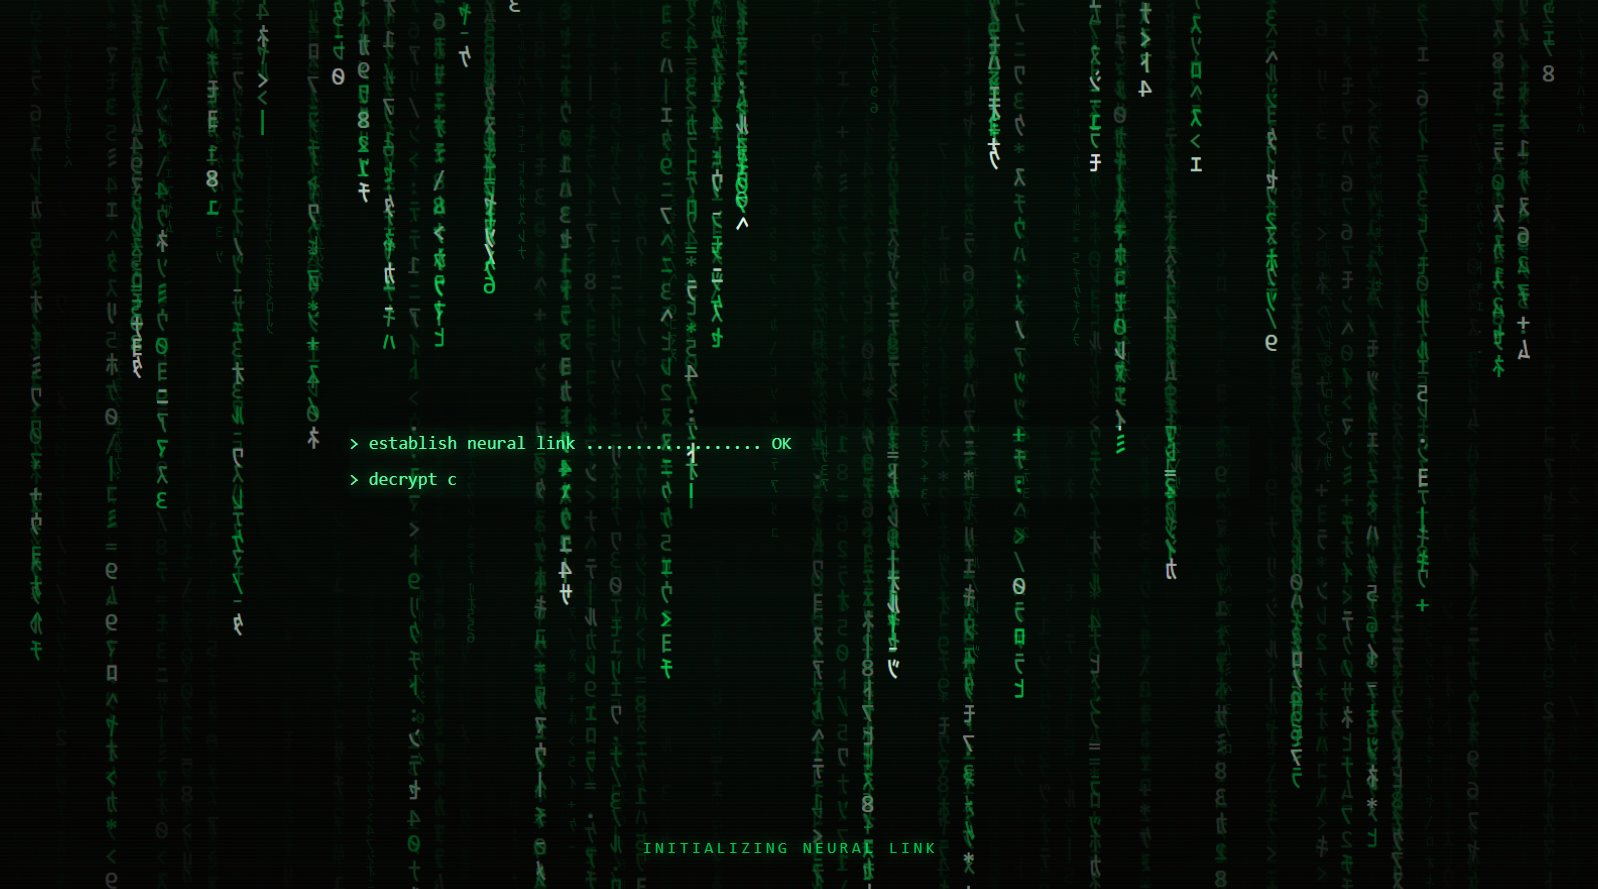
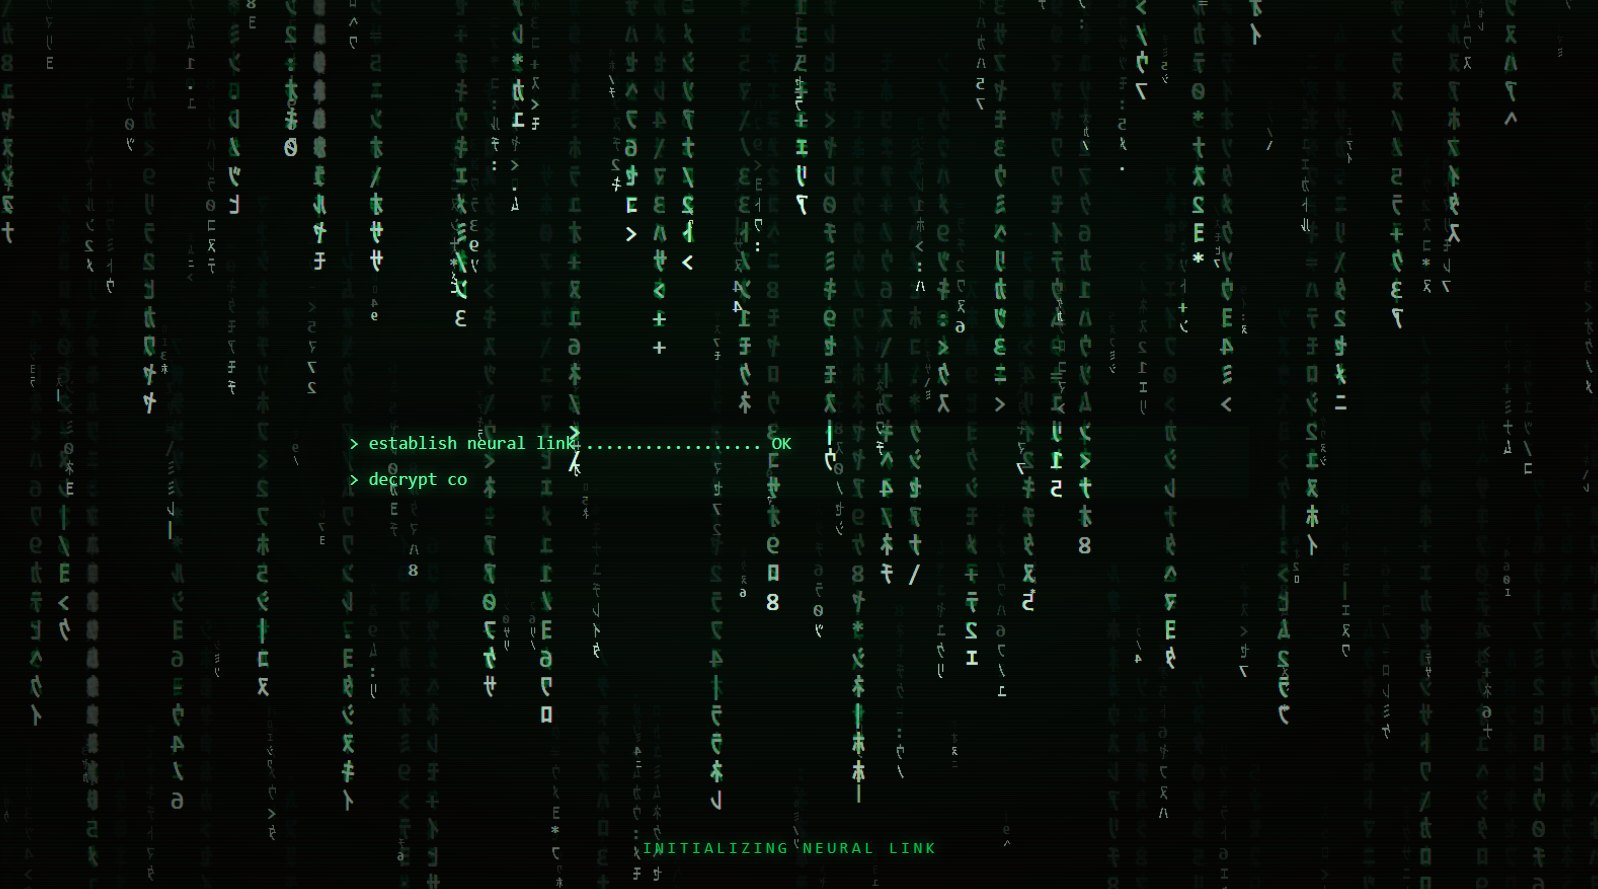
feat(matrix): 数字雨改为三层视差并放慢下落
- 远层 0.46x 字号/隔列/几乎静止, 中层 0.72x, 近层 1.0x 最快最亮; 速度降到原来的约 1/5

- 头字固定后每帧重绘, 拖尾靠底色衰减(0.035), 慢速下不再闪成散点

- 镜头缓推 1.07; 截图同步更新

diff --git a/splashes/matrix/index.html b/splashes/matrix/index.html
@@ -57,7 +57,8 @@
     animation:drift 15s ease-out forwards;
   }
   body.dsh-rain #rainWrap{opacity:1;}
-  @keyframes drift{from{transform:scale(1)}to{transform:scale(1.045)}}
+  /* 镜头极缓推近, 配合三层视差形成"从后往前"的纵深 */
+  @keyframes drift{from{transform:scale(1)}to{transform:scale(1.07)}}
   #rain{
     display:block;width:100%;height:100%;
     transition:transform .07s linear,filter .07s linear;
@@ -346,16 +347,27 @@ function waitOr(logicalMs, cond){
   });
 }
 
-/* ===== 数字雨(canvas, 远近两层) ===== */
+/* ===== 数字雨(canvas, 远 / 中 / 近 三层) ===== */
 const canvas = $("#rain");
 const ctx = canvas.getContext("2d", { alpha: false });
 const BG = "#050403";
 /* 半角片假名 + 数字 + 符号: 经典 Matrix 雨点字符集 */
 const GLYPHS = "ｱｲｳｴｵｶｷｸｹｺｻｼｽｾｿﾀﾁﾂﾃﾄﾅﾆﾇﾈﾉﾊﾋﾌﾍﾎﾏﾐﾑﾒﾓﾔﾕﾖﾗﾘﾙﾚﾛﾜﾝ0123456789:.=+-*<>|/\\";
 const FONT = 'Consolas,"MS Gothic","Courier New",monospace';
+const rndGlyph = () => GLYPHS[(Math.random() * GLYPHS.length) | 0];
 
-let W = 0, H = 0, dpr = 1, cols = 0, baseFont = 16, farFont = 10;
-let near = [], nearSpd = [], far = [], farSpd = [], burst = [];
+/* 三层的"距离感": 字号 / 亮度 / 下落速度 / 拖尾长度逐层递减。
+   远层最慢最暗最小、还错开半格落在近层柱缝里 —— 近层唰唰往下走, 远层只是缓缓漂,
+   两者叠在一起才有"从后往前"的纵深。
+   速度单位是"格/帧", 60fps 下近层 ≈ 8~17 格/秒(原来 ~66 格/秒, 就是那个"太快")。 */
+const LAYER_DEFS = [
+  { scale: 0.46, alpha: 0.15, vMin: 0.024, vMax: 0.050, offset: 0.55, tails: 0, step: 2 },
+  { scale: 0.72, alpha: 0.28, vMin: 0.050, vMax: 0.100, offset: 0.28, tails: 1, step: 1 },
+  { scale: 1.00, alpha: 1.00, vMin: 0.100, vMax: 0.220, offset: 0.00, tails: 2, step: 1 }
+];
+
+let W = 0, H = 0, dpr = 1, baseFont = 16;
+let layers = [];
 let raining = false, raf = 0, lastFrame = 0, nextBurstAt = 0;
 
 function resize(){
@@ -367,28 +379,25 @@ function resize(){
 
   /* 参考片头: 字比常见"终端雨"更大更粗, 列距紧(几乎无缝), 雨柱才连成一片 */
   baseFont = Math.max(11, Math.round(Math.min(20, window.innerWidth / 64))) * dpr;
-  farFont = Math.max(7, Math.round(baseFont * 0.62));
-  cols = Math.ceil(W / baseFont) + 1;
 
-  const rows = H / baseFont;
-  near = new Array(cols); nearSpd = new Array(cols); burst = new Array(cols).fill(-1e9);
-  far = new Array(cols); farSpd = new Array(cols);
-  for (let i = 0; i < cols; i++){
-    near[i] = Math.random() * rows * 1.2 - rows * 0.2;
-    nearSpd[i] = 0.6 + Math.random() * 1.5;
-    far[i] = Math.random() * rows * 1.2 - rows * 0.2;
-    farSpd[i] = 0.35 + Math.random() * 0.6;
-  }
+  layers = LAYER_DEFS.map(def => {
+    const font = Math.max(7, Math.round(baseFont * def.scale));
+    const pitch = Math.max(6, Math.round(font * 1.12));
+    const n = Math.ceil(W / pitch) + 1;
+    const rows = H / pitch;
+    return Object.assign({}, def, {
+      font, pitch, n,
+      drop: Array.from({ length: n }, () => Math.random() * rows * 1.25 - rows * 0.25),
+      spd: Array.from({ length: n }, () => def.vMin + Math.random() * (def.vMax - def.vMin)),
+      row: new Array(n).fill(-1e9),
+      ch: new Array(n).fill("0"),
+      burst: new Array(n).fill(-1e9)
+    });
+  });
+
   ctx.setTransform(1, 0, 0, 1, 0, 0);
   ctx.fillStyle = BG;
   ctx.fillRect(0, 0, W, H);
-}
-
-/* 雨头 + 上面两个字(左右镜像): 一条 3 字的亮柱, 接近参考里的粗细 */
-function glyph(ax, y, color){
-  ctx.setTransform(-1, 0, 0, 1, ax, y);
-  ctx.fillStyle = color;
-  ctx.fillText(GLYPHS[(Math.random() * GLYPHS.length) | 0], 0, 0);
 }
 
 function frame(now){
@@ -398,64 +407,78 @@ function frame(now){
   const dt = Math.max(0.4, Math.min(2.6, (now - lastFrame) / 16.667 || 1));
   lastFrame = now;
 
-  /* 半透明底色反复覆盖 = 拖尾; 系数不能太小, 否则残影糊成一层绿雾 */
-  ctx.fillStyle = "rgba(5,4,3,0.09)";
+  /* 半透明底色反复覆盖 = 拖尾。拖尾长度 ≈ 下落速度 / 衰减率, 速度降到 ~1/4 后
+     衰减也要跟着降(0.03), 否则每个字还没走出两格就被擦掉, 只剩一地散点 */
+  ctx.fillStyle = "rgba(5,4,3,0.035)";
   ctx.fillRect(0, 0, W, H);
   ctx.textBaseline = "top";
 
-  /* 远层: 小字、偏暗、慢半拍, 隔列取样并错开半格 —— 落在近层柱子的缝里才有纵深 */
-  ctx.font = farFont + "px " + FONT;
-  for (let i = 0; i < cols; i += 2){
-    const y = far[i] * baseFont;
-    const ax = i * baseFont + baseFont * 0.5 + farFont * 0.94;
-    glyph(ax, y, "rgba(0,190,80,.34)");
-    far[i] += farSpd[i] * dt;
-    if (y > H && Math.random() < 0.05) far[i] = -Math.random() * 18;
-  }
+  const near = layers[layers.length - 1];
 
-  /* 近层 */
-  ctx.font = baseFont + "px " + FONT;
-
-  /* 偶发的"整列爆亮": 每 0.9~1.8 秒随机点亮 1~2 列, 亮 240ms */
+  /* 偶发的"整列爆亮": 每 1.2~2.4 秒随机点亮 1~2 列近层, 亮 420ms */
   if (now > nextBurstAt){
-    nextBurstAt = now + 900 + Math.random() * 900;
-    burst[(Math.random() * cols) | 0] = now;
-    if (Math.random() < 0.35) burst[(Math.random() * cols) | 0] = now;
+    nextBurstAt = now + 1200 + Math.random() * 1200;
+    near.burst[(Math.random() * near.n) | 0] = now;
+    if (Math.random() < 0.3) near.burst[(Math.random() * near.n) | 0] = now;
   }
 
-  for (let i = 0; i < cols; i++){
-    const x = i * baseFont;
-    const y = near[i] * baseFont;
-    const ax = x + baseFont * 0.94;
-    const hot = now - burst[i] < 240;
+  for (let li = 0; li < layers.length; li++){
+    const L = layers[li];
+    const isNear = li === layers.length - 1;
+    /* 近层稍微再快一点, 远层几乎不动 —— 视差就来自这里 */
+    const ramp = isNear ? 1.12 : 0.92;
 
-    if (hot){
-      /* 爆亮列: 雨头往上 6 个字全部提到近白, 越往上越淡 */
-      for (let k = 0; k < 6; k++){
-        glyph(ax, y - baseFont * k, k === 0 ? "#ffffff"
-                                     : "rgba(226,255,238," + (0.6 - k * 0.09).toFixed(2) + ")");
+    ctx.font = L.font + "px " + FONT;
+    const headAlpha = isNear ? 0.96 : Math.min(0.8, L.alpha + 0.12);
+
+    for (let i = 0; i < L.n; i++){
+      /* 远层隔列取样: 更稀、更像远处的余光, 也省一半绘制 */
+      if (L.step > 1 && (i % L.step)) continue;
+      const ax = i * L.pitch + L.pitch * L.offset + L.font * 0.94;
+      const row = Math.floor(L.drop[i]);
+      const y = row * L.pitch;
+      const hot = isNear && (now - L.burst[i] < 420);
+
+      if (hot){
+        /* 爆亮列: 雨头往上 6 个字全部提到近白, 越往上越淡 */
+        for (let k = 0; k < 6; k++){
+          ctx.setTransform(-1, 0, 0, 1, ax, y - k * L.pitch);
+          ctx.fillStyle = k === 0 ? "rgba(255,255,255,.96)"
+                                  : "rgba(226,255,238," + (0.5 - k * 0.07).toFixed(2) + ")";
+          ctx.fillText(rndGlyph(), 0, 0);
+        }
+      } else {
+        /* 只有跨到新的一格才换字: 头字固定后每帧重绘以保持明亮,
+           身后的拖尾交给底色衰减 —— 这样慢速下落也不会闪成一片噪点 */
+        if (row !== L.row[i]){
+          L.row[i] = row;
+          L.ch[i] = rndGlyph();
+          for (let k = 1; k <= L.tails; k++){
+            ctx.setTransform(-1, 0, 0, 1, ax, y - k * L.pitch);
+            ctx.fillStyle = "rgba(0,255,110," + (L.alpha * (0.62 - k * 0.18)).toFixed(2) + ")";
+            ctx.fillText(rndGlyph(), 0, 0);
+          }
+        }
+        ctx.setTransform(-1, 0, 0, 1, ax, y);
+        ctx.fillStyle = "rgba(226,255,238," + headAlpha.toFixed(2) + ")";
+        ctx.fillText(L.ch[i], 0, 0);
       }
-    } else {
-      const r = Math.random();
-      glyph(ax, y, r < 0.16 ? "#ffffff"
-                 : r < 0.42 ? "#e6fff0"
-                 : "rgba(0,255,102,.82)");
-      glyph(ax, y - baseFont, "rgba(92,255,150,.55)");
-      glyph(ax, y - baseFont * 2, "rgba(0,255,102,.32)");
-      if (Math.random() < 0.5) glyph(ax, y - baseFont * 3, "rgba(0,255,102,.18)");
-    }
 
-    near[i] += nearSpd[i] * dt;
-    if (y > H && Math.random() < 0.06) near[i] = -Math.random() * 14;
+      L.drop[i] += L.spd[i] * ramp * dt;
+      if (y > H + L.pitch * 2 && Math.random() < 0.05){
+        L.drop[i] = -Math.random() * 12;
+        L.row[i] = -1e9;
+      }
+    }
   }
   ctx.setTransform(1, 0, 0, 1, 0, 0);
 }
 
 function startRain(){
   if (raining) return;
-  if (!near.length) resize();
+  if (!layers.length) resize();
   lastFrame = performance.now();
-  nextBurstAt = lastFrame + 700;
+  nextBurstAt = lastFrame + 900;
   raining = true;
   raf = requestAnimationFrame(frame);
 }
